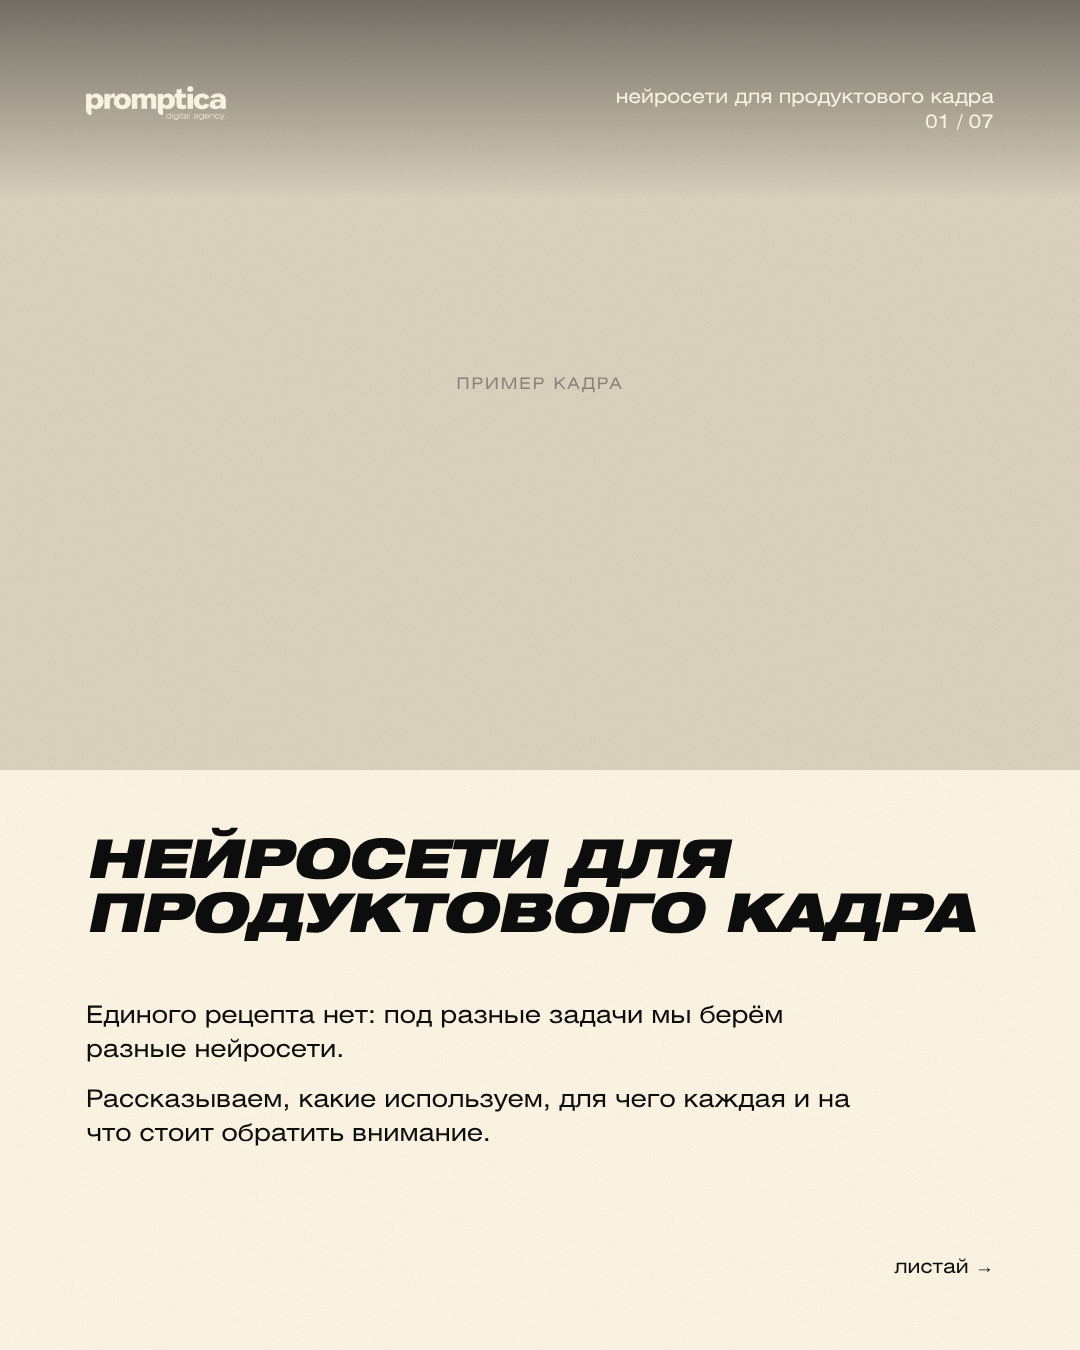
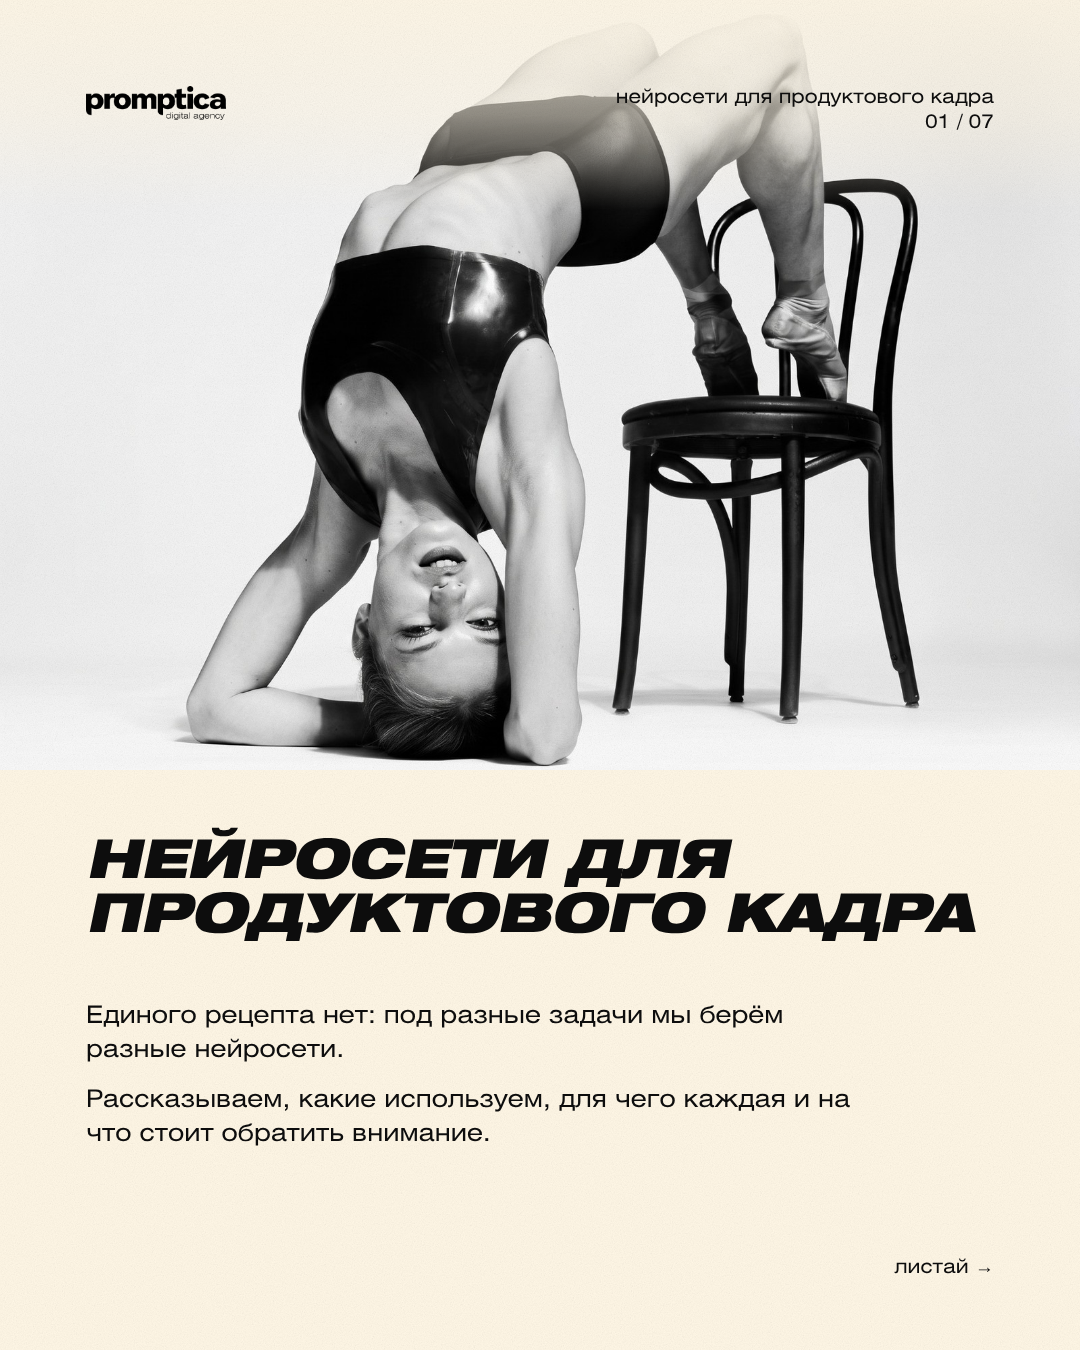
«Нейросети для продуктового кадра»: фото на слайдах 1–3
Claude-Session: https://claude.ai/code/session_01V1NUh11xrVMcB1cs4GV2qz

diff --git a/carousels/promptica-product-shot/02.html b/carousels/promptica-product-shot/02.html
@@ -7,7 +7,7 @@
 </head>
 <body>
   <div class="slide ">
-    <div class="photos top"><div class="ph"><div class="hint">пример: реалистичный креатив</div><img src="img/02-a.jpg" alt="" onerror="this.remove()"></div><div class="ph"><div class="hint">пример: реалистичный креатив</div><img src="img/02-b.jpg" alt="" onerror="this.remove()"></div></div>
+    <div class="photos top"><div class="ph"><div class="hint">пример: реалистичный креатив</div><img src="img/02-a.jpg" style="object-position:50% 32%" alt="" onerror="this.remove()"></div><div class="ph"><div class="hint">пример: реалистичный креатив</div><img src="img/02-b.jpg" style="object-position:50% 30%" alt="" onerror="this.remove()"></div></div>
     <div class="tool" style="top:820px"><div class="n">реалистичные креативы</div><h2>Seedream</h2></div>
     <div class="txt" style="top:820px"><p>Для реалистичных креативов чаще всего берём Seedream: он уверенно держит фактуру кожи и ткани, поэтому нужный кадр нередко получается с одной-двух генераций.</p><p>Но с людьми есть нюанс: по умолчанию он тянется к азиатской, чаще корейской внешности.</p><div class="tip">Не оставляйте внешность на волю модели: сразу чётко описывайте героя.</div></div>
     <div class="topscrim"></div>

diff --git a/carousels/promptica-product-shot/01.html b/carousels/promptica-product-shot/01.html
@@ -11,8 +11,9 @@
     <div class="tool" style="top:830px;width:900px"><h2 style="font-size:54px;line-height:1">Нейросети для<br>продуктового кадра</h2></div>
     <div class="txt" style="left:86px;top:1000px;width:800px;font-size:24px"><p>Единого рецепта нет: под разные задачи мы берём разные нейросети.</p><p>Рассказываем, какие используем, для чего каждая и на что стоит обратить внимание.</p></div>
     <div class="swipe">листай →</div>
-    <div class="topscrim"></div>
-    <div class="head on-photo"><img src="../../assets/logo_cream.png" alt="promptica"><div class="meta">нейросети для продуктового кадра<br>01 / 07</div></div>
+    
+    <div style="position:absolute;left:0;right:0;top:0;height:210px;background:linear-gradient(180deg,rgba(255,247,230,.9) 0%,rgba(255,247,230,.55) 55%,rgba(255,247,230,0) 100%);z-index:5"></div>
+    <div class="head"><img src="../../assets/logo_black.png" alt="promptica"><div class="meta">нейросети для продуктового кадра<br>01 / 07</div></div>
     <svg class="grain"><filter id="g"><feTurbulence type="fractalNoise" baseFrequency=".9" numOctaves="3" seed="1" stitchTiles="stitch"/><feColorMatrix type="saturate" values="0"/></filter><rect width="100%" height="100%" filter="url(#g)"/></svg>
   </div>
 </body>

diff --git a/carousels/promptica-product-shot/03.html b/carousels/promptica-product-shot/03.html
@@ -7,7 +7,7 @@
 </head>
 <body>
   <div class="slide ">
-    <div class="photos bottom"><div class="ph"><div class="hint">пример: референс настроения</div><img src="img/03-a.jpg" alt="" onerror="this.remove()"></div><div class="ph"><div class="hint">пример: референс света</div><img src="img/03-b.jpg" alt="" onerror="this.remove()"></div></div>
+    <div class="photos bottom"><div class="ph"><div class="hint">пример: референс настроения</div><img src="img/03-a.jpg" alt="" onerror="this.remove()"></div></div>
     <div class="tool" style="top:215px"><div class="n">идеи и референсы</div><h2>Midjourney</h2></div>
     <div class="txt" style="top:215px"><p>Midjourney берём, когда нужно найти настроение: свет, композицию, цветовую среду.</p><p>Он силён в эстетике, но плохо слушается буквальных инструкций: надписи и точные детали упаковки — не его территория.</p><div class="tip">Используйте его как источник референсов, а не как готовый кадр.</div></div>
     
